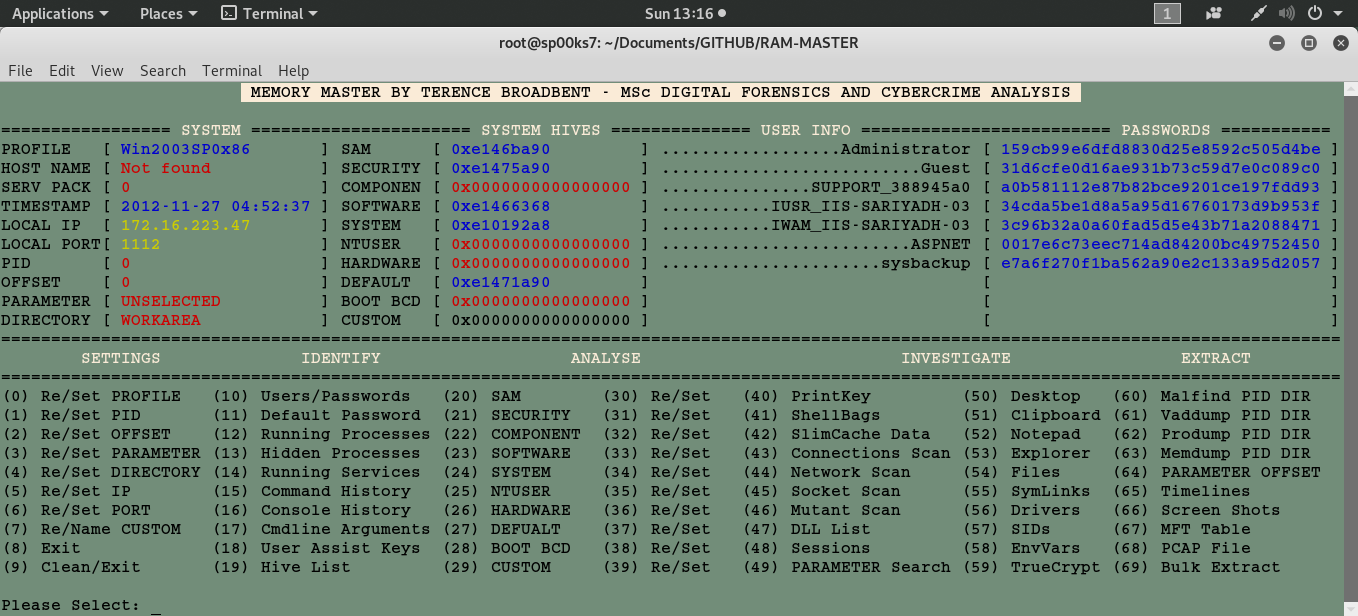
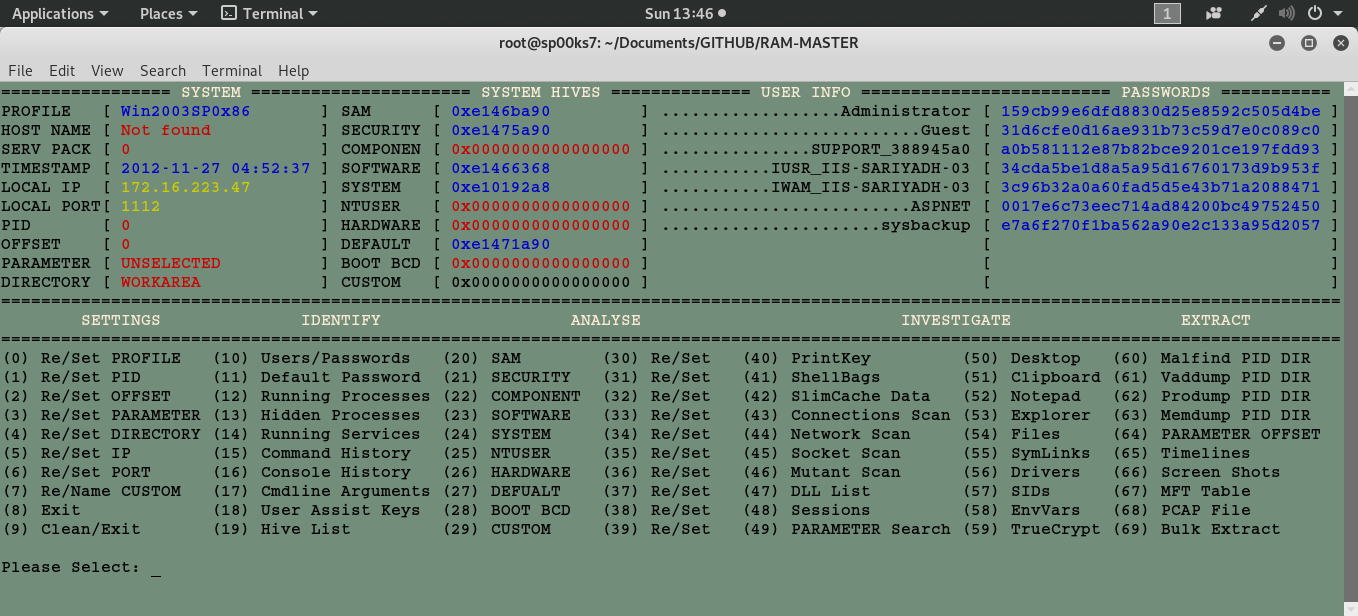
changes

Changed region(s): [[0.0, 0.1234, 0.9897, 0.5244], [0.0, 0.5552, 0.9897, 0.9253], [0.0, 0.9562, 0.0928, 1.0]]

diff --git a/RamMaster.py b/RamMaster.py
@@ -300,8 +300,6 @@ os.remove('conn1.txt')
 # -------------------------------------------------------------------------------------
 
 def Display():
-   print colored("\t\t\t MEMORY MASTER BY TERENCE BROADBENT - MSc DIGITAL FORENSICS AND CYBERCRIME ANALYSIS \n",'grey','on_white')
-
 # -------------------------------------------------------------------------------------
 
    print "="*17,

diff --git a/README.md b/README.md
@@ -5,7 +5,7 @@ Usage: python RamMaster dumpfile.mem
 
 | LANGUAGE  | FILENAME         | MD5 Hash                         |
 |------     |------            | -------                          |
-| python    | RamMaster.py     | 1a323321f8f54bb7f0c219ff3e15cd22 |
+| python    | RamMaster.py     | 7961979999396cc9f398c45856fdde4e |
 | text file | profiles.txt     | 90a98544725dc945df30c20fabeb3e80 |
 | bash file | patch.sh         | 7a4231731982e09d9a703f7357170755 |
 
